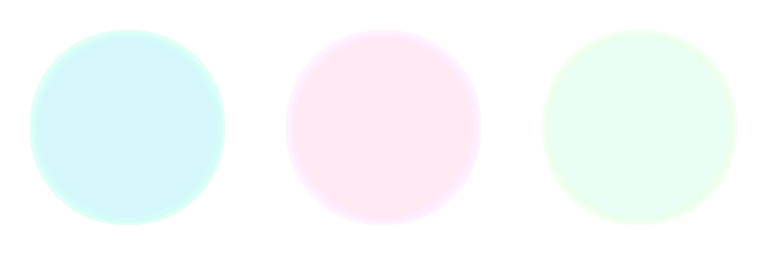
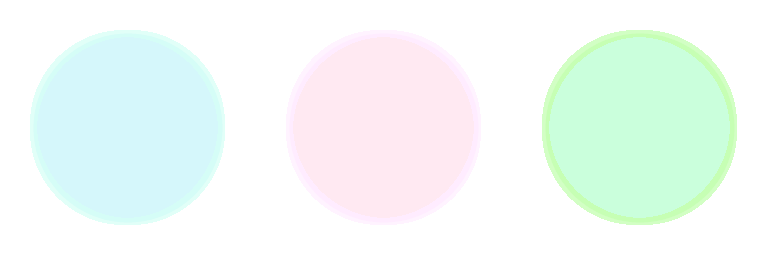
green

Changed region(s): [[0.6875, 0.0938, 0.9688, 0.9062]]

diff --git a/src/components/RhythmGame/Bauble.ts b/src/components/RhythmGame/Bauble.ts
@@ -99,7 +99,7 @@ export class Bauble extends Collidable{
                 this.atimer = this.mtimer;
                 this.spr.setAlpha(1);
                 this.activated = true;
-                this.spr.setFrame(1);
+                this.spr.setFrame(2);
                 this.bindInteractive(this.spr);
             }
             if(this.atimer >= 0){

diff --git a/src/components/RhythmGame/Beatmap.ts b/src/components/RhythmGame/Beatmap.ts
@@ -321,6 +321,7 @@ export class Beatmap {
         {key: "bubble", spawn: 158, spr: "bbl", ac:162.75, end:163.75, note:"t_F", v: [0, Phaser.Math.DegToRad(-135)], xy:[1200,900], collide:[0,3]},
 
     ];
+    
     constructor(scene: MusicScene){
         this.curIndex = 0;
         this.scene=scene;
